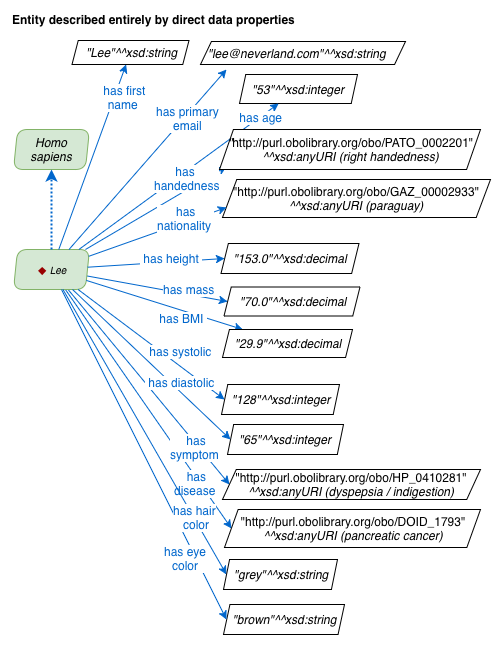
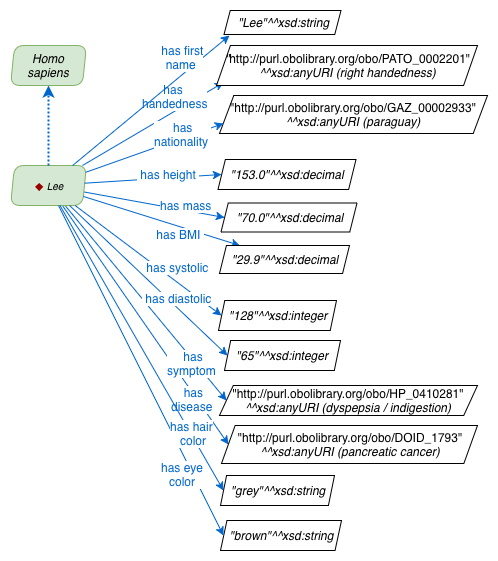
edit

Changed region(s): [[0.0, 0.0, 0.994, 1.0]]

diff --git a/_pages/docs/data-properties.md b/_pages/docs/data-properties.md
@@ -35,22 +35,16 @@ Suitable object properties:
 - `inheres in` or `bearer of` object property if ...???
 - `denotes` if the ICE is a type of identifier, such as a [`centrally registered identifier symbol`](http://purl.obolibrary.org/obo/IAO_0000577) like a [`specimen identifier`](http://purl.obolibrary.org/obo/OBI_0001616) or a NCIT [`identifier`](http://purl.obolibrary.org/obo/NCIT_C25364) for example.
 - 'location of' if the literal value X is locating the given entity by a geospatial reference. ????
-- 
+
 Now, back to the age example, it looks like we could supply various age measurements like this:
 
 <img src="/assets/images/docs/data_lee_object_property_ages.png">
 
-Rather than establish a `has age` data property, OBI expresses that [`age`](http://purl.obolibrary.org/obo/PATO_0000011) is a quality of our entity, and then focus on defining the semantics of it and its subclasses.
-
-But is Lee a 12 year old youth, or a 12 month old toddler?  We need the unit of measure, in minutes, days, months, or years.  Data properties can't support units directly, so a second data property is required to eliminate ambiguity.
-
-## Limitations
-
-There are value details that a `has ... value` data property can't do by itself as the following examples illustrate, and that are resolved by the introduction of a `value specification` entity (described in the next section.)
+Rather than establish a `has age` data property, OBI expresses that [`age`](http://purl.obolibrary.org/obo/PATO_0000011) is a quality of our entity, and then focus on defining the semantics of it and its subclasses.  However, there are some limitations of the `has ... value` data property that this diagram and the one below expose.
 
 <img align="right" src="/assets/images/docs/data_lee_data_properties.png">
 
-- Data property values don't support units directly. In the example diagram of Lee's data properties to right, is the `has weight` decimal value given in kilos or grams? Is height in meters or centimetres? Either assumptions are made about units associated with a data property, or a second set of data properties must be created to capture unit info.  Value specifications allow units to be expressed explicitly.
+- Data properties can't support units directly, so a second data property is required to eliminate ambiguity.  Is Lee a 12 year old youth, or a 12 month old toddler?  We need the **unit of measure**, in minutes, days, months, or years.   In the example diagram of Lee's data properties to right, is the `has weight` decimal value given in kilos or grams? Is height in meters or centimetres? Without an explicit unit, assumptions are made about units associated with a data property.
 
 - A data property doesn't support a relevant time of measurement value.  For example, when was Lee's `has height` observed, and was it the same time as `has weight`, such that an accurate BMI can be calculated?  Admittedly, time differentiated data is rather complex to model in OWL. A pragmatic approach, if workable, is to only expose to an OWL reasoner data that doesn't need to be differentiated by time. In the BMI example, we could assume height and weight data properties are adequately close in time that derivative calculations are ok. OBI does offer annother approach detailed in the `Time-stamped data` section to describe n-dimensional points that include time.
 

diff --git a/_pages/docs/data-vs.md b/_pages/docs/data-vs.md
@@ -20,7 +20,7 @@ A value specification's primary aboutness is expressed using the **[`specifies v
 
 The connection between a measurement datum (or any ICE term) and a value specification is accomplished with the **[`has value specification`](http://purl.obolibrary.org/obo/OBI_0001938){:target="_blank"}** object property. Thus an [`age measurement datum`](http://purl.obolibrary.org/obo/OBI_0001167){:target="_blank"} could be linked to a numeric value specification which details the unit - year, month, day etc. of the measure. It could alternately be provided as a [`categorical value`](/docs/data-categorical/) for "mature", "immature", "neonatal", etc.
 
-In the case where a value specification and/or measurement datum is about the conjunction of a few different things, the aboutness target can be a precomposed term or instance of those components, with one component, usually a quality, providing the primary type of the measure.  For example "eye color" is primarily about color - and so limited to ways that can be reported, but secondarily about the body part being observed, and finally - in the instance, references a particular organism being observed. An example generic value specification and measurement datum both pointing to John's eye color being brown (in this case "specifies value of" points directly to the value specification's essentially categorical value. Here the `color value specification` points to the range of choices permitted for the instance of color quality, in this case, any subclass of color is ok.
+In the case where a value specification and/or measurement datum is about the conjunction of a few different things, the aboutness target can be a postcomposed expression of those components, with one component, usually a quality, providing the primary type of the measure.  For example "eye color" is primarily about color - and so limited to ways that can be reported, but secondarily about the body part being observed, and finally - in the instance, references a particular organism being observed. An example generic value specification and measurement datum both pointing to John's eye color being brown (in this case "specifies value of" points directly to the value specification's essentially categorical value. Here the `color value specification` points to the range of choices permitted for the instance of color quality, in this case, any subclass of color is ok.
 
 <img src="/assets/images/docs/data_john_eye.png">
 
